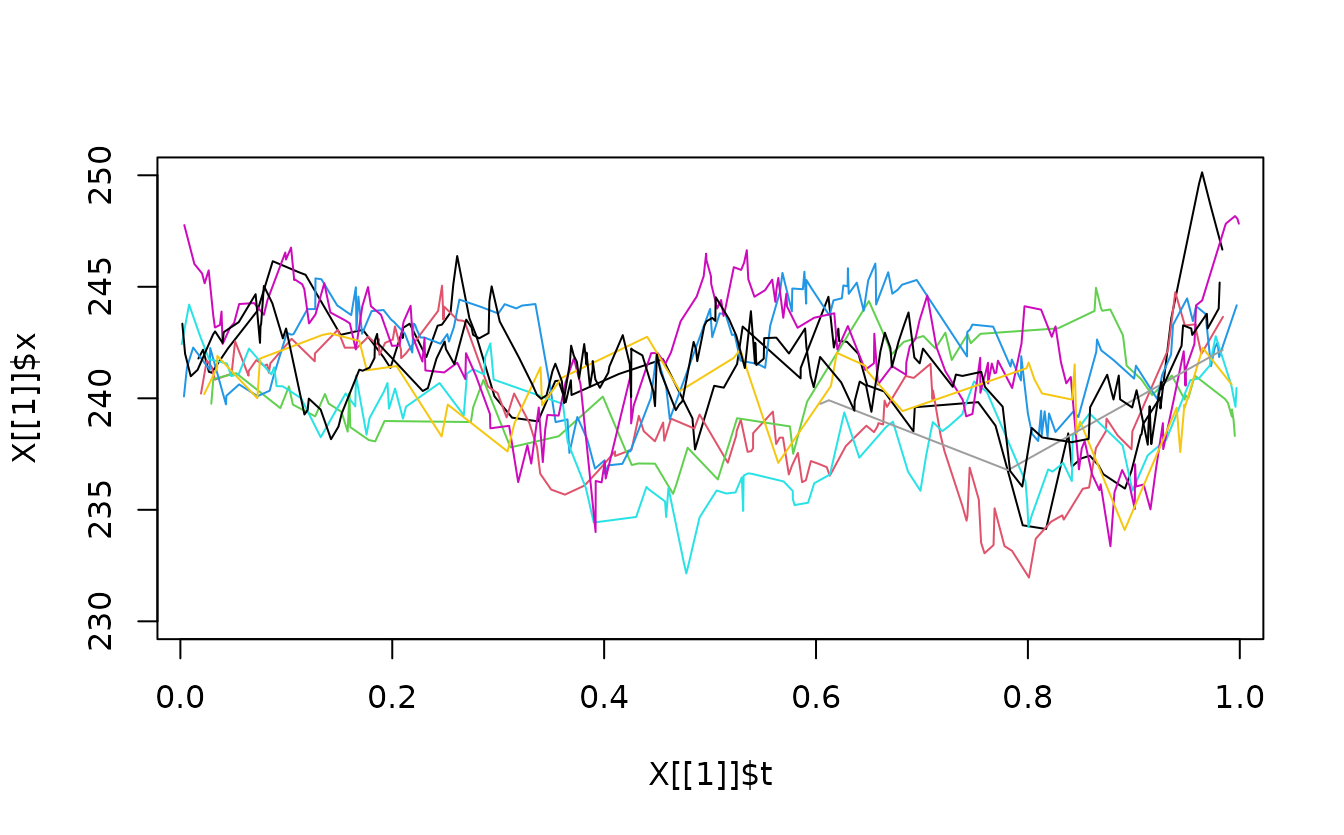
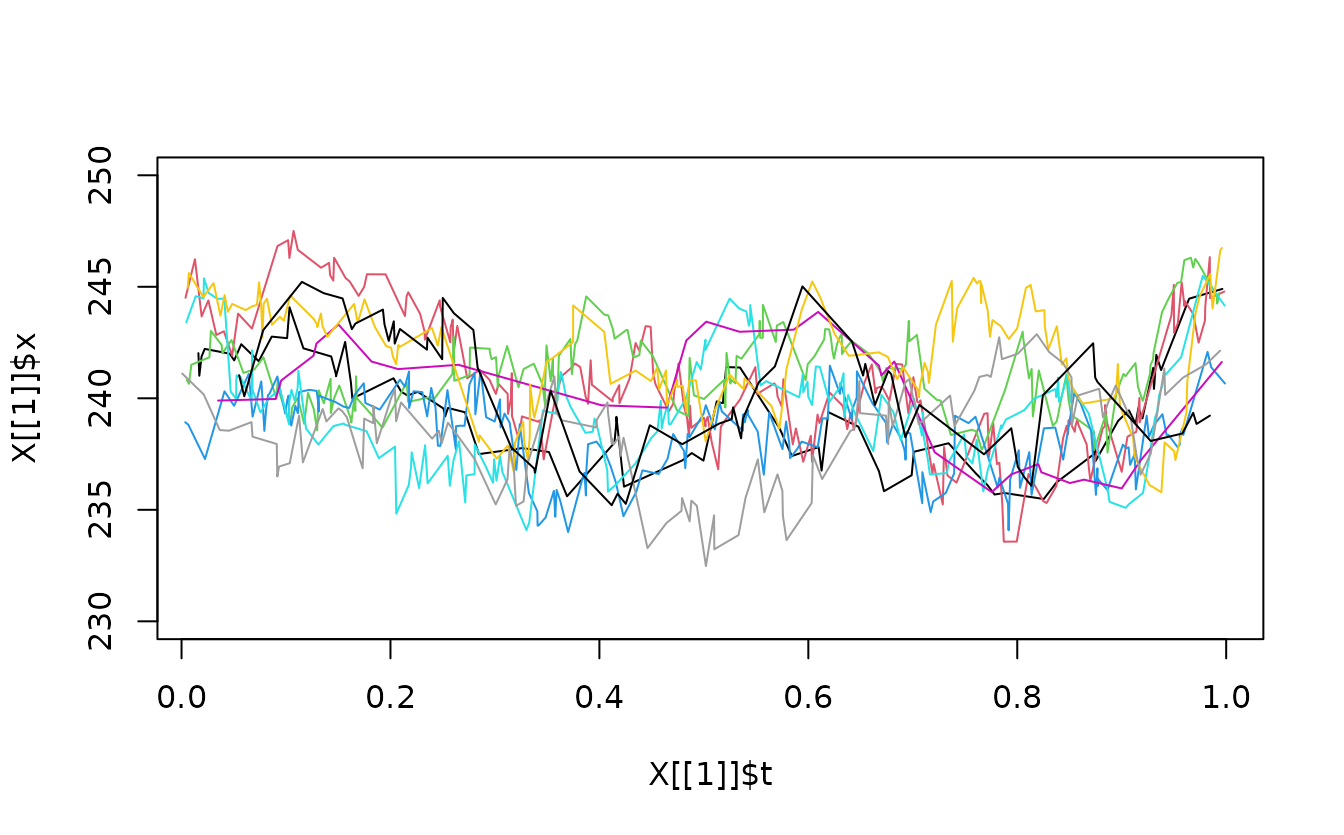
Built site for simulater: 1.0.0@4d4b564

diff --git a/reference/brownian.html b/reference/brownian.html
@@ -1,0 +1,94 @@
+<!DOCTYPE html>
+<!-- Generated by pkgdown: do not edit by hand --><html lang="en"><head><meta http-equiv="Content-Type" content="text/html; charset=UTF-8"><meta charset="utf-8"><meta http-equiv="X-UA-Compatible" content="IE=edge"><meta name="viewport" content="width=device-width, initial-scale=1.0"><title>Brownian — brownian • simulater</title><!-- jquery --><script src="https://cdnjs.cloudflare.com/ajax/libs/jquery/3.4.1/jquery.min.js" integrity="sha256-CSXorXvZcTkaix6Yvo6HppcZGetbYMGWSFlBw8HfCJo=" crossorigin="anonymous"></script><!-- Bootstrap --><link rel="stylesheet" href="https://cdnjs.cloudflare.com/ajax/libs/twitter-bootstrap/3.4.1/css/bootstrap.min.css" integrity="sha256-bZLfwXAP04zRMK2BjiO8iu9pf4FbLqX6zitd+tIvLhE=" crossorigin="anonymous"><script src="https://cdnjs.cloudflare.com/ajax/libs/twitter-bootstrap/3.4.1/js/bootstrap.min.js" integrity="sha256-nuL8/2cJ5NDSSwnKD8VqreErSWHtnEP9E7AySL+1ev4=" crossorigin="anonymous"></script><!-- bootstrap-toc --><link rel="stylesheet" href="../bootstrap-toc.css"><script src="../bootstrap-toc.js"></script><!-- Font Awesome icons --><link rel="stylesheet" href="https://cdnjs.cloudflare.com/ajax/libs/font-awesome/5.12.1/css/all.min.css" integrity="sha256-mmgLkCYLUQbXn0B1SRqzHar6dCnv9oZFPEC1g1cwlkk=" crossorigin="anonymous"><link rel="stylesheet" href="https://cdnjs.cloudflare.com/ajax/libs/font-awesome/5.12.1/css/v4-shims.min.css" integrity="sha256-wZjR52fzng1pJHwx4aV2AO3yyTOXrcDW7jBpJtTwVxw=" crossorigin="anonymous"><!-- clipboard.js --><script src="https://cdnjs.cloudflare.com/ajax/libs/clipboard.js/2.0.6/clipboard.min.js" integrity="sha256-inc5kl9MA1hkeYUt+EC3BhlIgyp/2jDIyBLS6k3UxPI=" crossorigin="anonymous"></script><!-- headroom.js --><script src="https://cdnjs.cloudflare.com/ajax/libs/headroom/0.11.0/headroom.min.js" integrity="sha256-AsUX4SJE1+yuDu5+mAVzJbuYNPHj/WroHuZ8Ir/CkE0=" crossorigin="anonymous"></script><script src="https://cdnjs.cloudflare.com/ajax/libs/headroom/0.11.0/jQuery.headroom.min.js" integrity="sha256-ZX/yNShbjqsohH1k95liqY9Gd8uOiE1S4vZc+9KQ1K4=" crossorigin="anonymous"></script><!-- pkgdown --><link href="../pkgdown.css" rel="stylesheet"><script src="../pkgdown.js"></script><meta property="og:title" content="Brownian — brownian"><meta property="og:description" content="Simulated brownian motion dataset."><!-- mathjax --><script src="https://cdnjs.cloudflare.com/ajax/libs/mathjax/2.7.5/MathJax.js" integrity="sha256-nvJJv9wWKEm88qvoQl9ekL2J+k/RWIsaSScxxlsrv8k=" crossorigin="anonymous"></script><script src="https://cdnjs.cloudflare.com/ajax/libs/mathjax/2.7.5/config/TeX-AMS-MML_HTMLorMML.js" integrity="sha256-84DKXVJXs0/F8OTMzX4UR909+jtl4G7SPypPavF+GfA=" crossorigin="anonymous"></script><!--[if lt IE 9]>
+<script src="https://oss.maxcdn.com/html5shiv/3.7.3/html5shiv.min.js"></script>
+<script src="https://oss.maxcdn.com/respond/1.4.2/respond.min.js"></script>
+<![endif]--></head><body data-spy="scroll" data-target="#toc">
+    
+
+    <div class="container template-reference-topic">
+      <header><div class="navbar navbar-default navbar-fixed-top" role="navigation">
+  <div class="container">
+    <div class="navbar-header">
+      <button type="button" class="navbar-toggle collapsed" data-toggle="collapse" data-target="#navbar" aria-expanded="false">
+        <span class="sr-only">Toggle navigation</span>
+        <span class="icon-bar"></span>
+        <span class="icon-bar"></span>
+        <span class="icon-bar"></span>
+      </button>
+      <span class="navbar-brand">
+        <a class="navbar-link" href="../index.html">simulater</a>
+        <span class="version label label-default" data-toggle="tooltip" data-placement="bottom" title="">1.0.0</span>
+      </span>
+    </div>
+
+    <div id="navbar" class="navbar-collapse collapse">
+      <ul class="nav navbar-nav"><li>
+  <a href="../reference/index.html">Reference</a>
+</li>
+<li class="dropdown">
+  <a href="#" class="dropdown-toggle" data-toggle="dropdown" role="button" data-bs-toggle="dropdown" aria-expanded="false">
+    Articles
+     
+    <span class="caret"></span>
+  </a>
+  <ul class="dropdown-menu" role="menu"><li>
+      <a href="../articles/generate_data.html">Example of data generation</a>
+    </li>
+  </ul></li>
+      </ul><ul class="nav navbar-nav navbar-right"><li>
+  <a href="https://github.com/StevenGolovkine/simulater/" class="external-link">
+    <span class="fab fa-github fa-lg"></span>
+     
+  </a>
+</li>
+      </ul></div><!--/.nav-collapse -->
+  </div><!--/.container -->
+</div><!--/.navbar -->
+
+      
+
+      </header><div class="row">
+  <div class="col-md-9 contents">
+    <div class="page-header">
+    <h1>Brownian</h1>
+    <small class="dont-index">Source: <a href="https://github.com/StevenGolovkine/simulater/blob/HEAD/R/data.R" class="external-link"><code>R/data.R</code></a></small>
+    <div class="hidden name"><code>brownian.Rd</code></div>
+    </div>
+
+    <div class="ref-description">
+    <p>Simulated brownian motion dataset.</p>
+    </div>
+
+    <div id="ref-usage">
+    <div class="sourceCode"><pre class="sourceCode r"><code><span class="va">brownian</span></code></pre></div>
+    </div>
+
+    <div id="format">
+    <h2>Format</h2>
+    <p>A data frame with 1000 rows and 1000 variables.</p>
+    </div>
+
+  </div>
+  <div class="col-md-3 hidden-xs hidden-sm" id="pkgdown-sidebar">
+    <nav id="toc" data-toggle="toc" class="sticky-top"><h2 data-toc-skip>Contents</h2>
+    </nav></div>
+</div>
+
+
+      <footer><div class="copyright">
+  <p></p><p>Developed by Steven Golovkine.</p>
+</div>
+
+<div class="pkgdown">
+  <p></p><p>Site built with <a href="https://pkgdown.r-lib.org/" class="external-link">pkgdown</a> 2.0.2.</p>
+</div>
+
+      </footer></div>
+
+  
+
+
+  
+
+  </body></html>
+

diff --git a/reference/generate_data.html b/reference/generate_data.html
@@ -130,7 +130,9 @@ Heteroscedasticity is allowed using the <code>coefs</code> parameter.</p>
 <span class="r-in"> <span class="va">cov</span> <span class="op">&lt;-</span> <span class="fu"><a href="learn_covariance.html">learn_covariance</a></span><span class="op">(</span><span class="va">powerconsumption</span>, <span class="st">'lm'</span><span class="op">)</span></span>
 <span class="r-in"> <span class="va">coefs</span> <span class="op">&lt;-</span> <span class="fu"><a href="learn_noise.html">learn_noise</a></span><span class="op">(</span>df <span class="op">=</span> <span class="va">powerconsumption</span><span class="op">)</span></span>
 <span class="r-in"> <span class="va">df</span> <span class="op">&lt;-</span> <span class="fu">generate_data</span><span class="op">(</span>n <span class="op">=</span> <span class="fl">10</span>, m <span class="op">=</span> <span class="fl">40</span>, model_mean <span class="op">=</span> <span class="va">mod</span>, covariance <span class="op">=</span> <span class="va">cov</span>,</span>
-<span class="r-in">                     coefs <span class="op">=</span> <span class="va">coefs</span>, lambda <span class="op">=</span> <span class="fu"><a href="https://rdrr.io/r/base/Log.html" class="external-link">exp</a></span><span class="op">(</span><span class="op">-</span><span class="fl">3.5</span><span class="op">)</span>, ti <span class="op">=</span> <span class="cn">NULL</span>, p <span class="op">=</span> <span class="fl">0.2</span><span class="op">)</span></span>
+<span class="r-in">                     model_noise <span class="op">=</span> <span class="va">coefs</span>, lambda <span class="op">=</span> <span class="fu"><a href="https://rdrr.io/r/base/Log.html" class="external-link">exp</a></span><span class="op">(</span><span class="op">-</span><span class="fl">3.5</span><span class="op">)</span>,</span>
+<span class="r-in">                     ti <span class="op">=</span> <span class="cn">NULL</span>, grid <span class="op">=</span> <span class="fu"><a href="https://rdrr.io/r/base/seq.html" class="external-link">seq</a></span><span class="op">(</span><span class="fl">0</span>, <span class="fl">1</span>, length.out <span class="op">=</span> <span class="fl">101</span><span class="op">)</span>,</span>
+<span class="r-in">                     p <span class="op">=</span> <span class="fl">0.2</span>, k <span class="op">=</span> <span class="fl">1</span><span class="op">)</span></span>
 <span class="r-in"> <span class="op">}</span></span>
 <span class="r-in"><span class="op">}</span></span>
 </code></pre></div>

diff --git a/reference/index.html b/reference/index.html
@@ -58,6 +58,10 @@
           <p class="section-desc"></p>
         </th>
       </tr></tbody><tbody><tr><td>
+          <p><code><a href="brownian.html">brownian</a></code> </p>
+        </td>
+        <td><p>Brownian</p></td>
+      </tr><tr><td>
           <p><code><a href="generate_data.html">generate_data()</a></code> </p>
         </td>
         <td><p>Generate realistic datasets</p></td>
